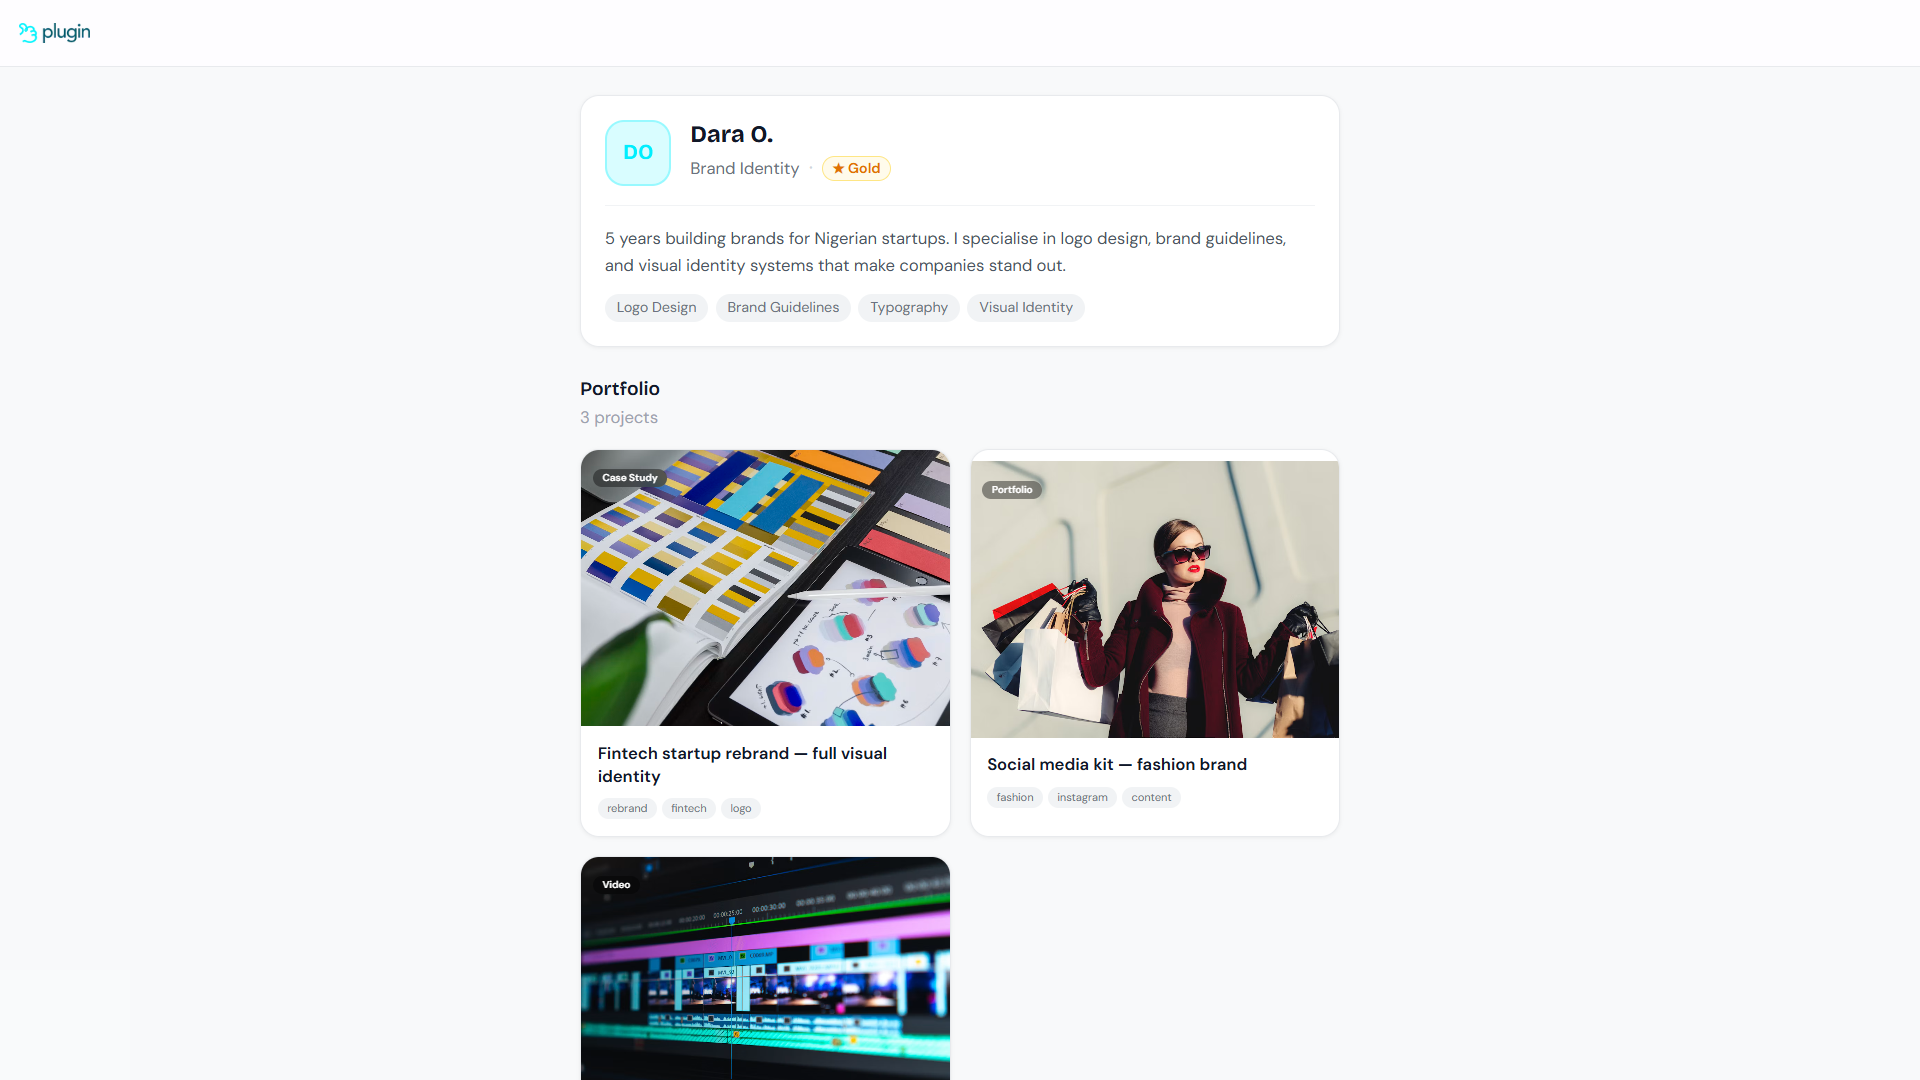
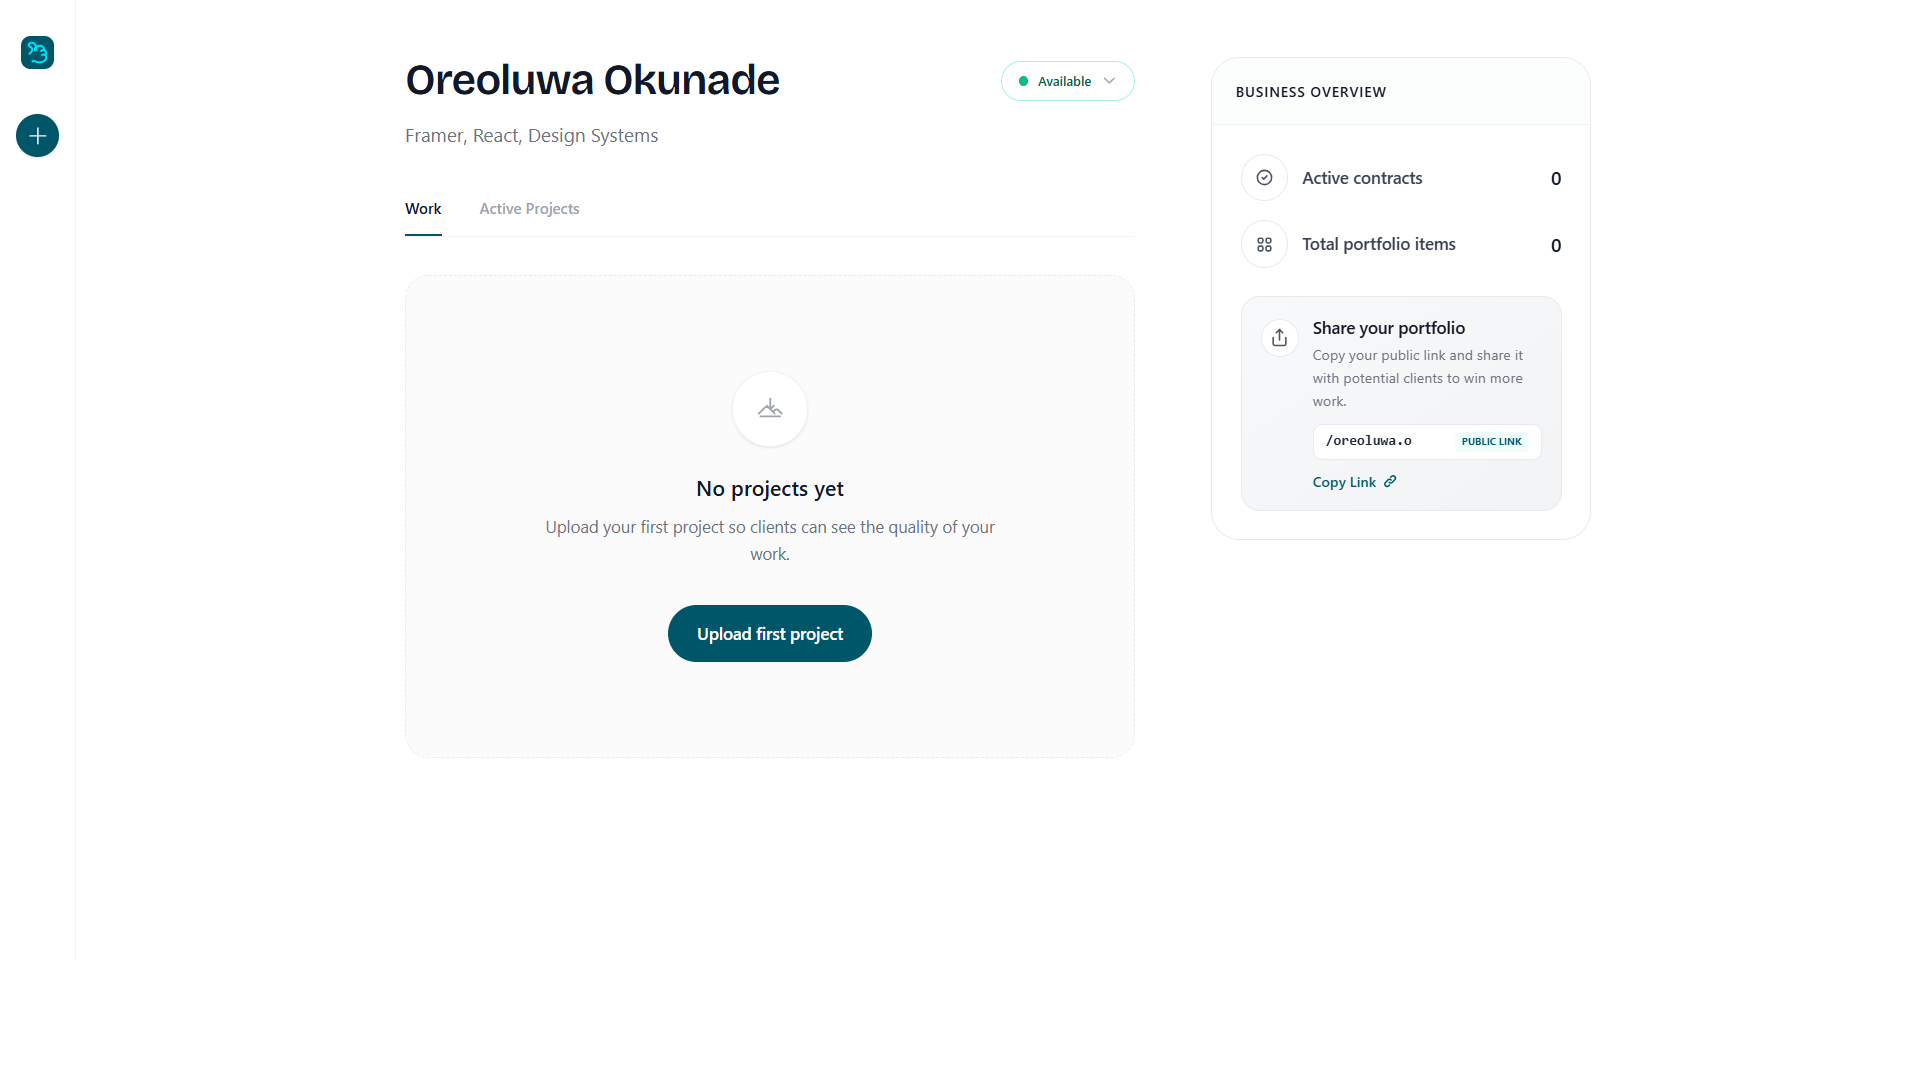
feat: use freelancer dashboard cover, rewrite copy in plain English, add screens gallery and key learnings

diff --git a/constants.ts b/constants.ts
@@ -55,28 +55,56 @@ const RAW_WORKS: Project[] = [
   {
     id: 'plugin-portfolio',
     title: "Plugin Portfolio",
-    description: "Portfolio intelligence and talent matching engine.",
+    description: "Portfolio and project delivery tool for creators and freelancers.",
     tags: ["Next.js", "TypeScript", "Supabase", "Tailwind"],
     year: "2026",
     status: "Active",
     link: "https://github.com/oreokunade/Plugin-2",
     logo: import.meta.env.BASE_URL + "logos/plugin.png",
     details: {
-      subtitle: "Engineering an Intelligent Portfolio & Matching Infrastructure for Creators",
+      subtitle: "A simple way for freelancers to showcase work, manage clients, and deliver projects",
       heroImage: import.meta.env.BASE_URL + "casestudies/plugin-hero.png",
-      mainParagraph: "Plugin is an internal portfolio intelligence platform (PIL) and automated matchmaking engine engineered to connect verified African creative talent with discerning clients. Built with a headless Next.js architecture, Plugin ingests creative work across various formats, sanitizes media against disintermediation, algorithmically ranks providers into tiered quality brackets, and provides a frictionless, WhatsApp-friendly review and delivery interface for clients.",
+      mainParagraph: "Freelancers often struggle when sharing work with potential clients. They end up sending scattered Google Drive links, messy PDF files, or screenshots across WhatsApp chats. Plugin solves this by giving freelancers a single, clean home for their craft. Creators get an intuitive dashboard to manage their work, share a polished personal portfolio link, and send project deliverables directly to clients for instant approval.",
       highlights: [
-        { title: "Automated Media Sanitization", description: "Engineered an edge processing pipeline using Sharp that strips sensitive EXIF metadata, detects contact watermarks, and optimizes multi-gigabyte media uploads for rapid client-side delivery." },
-        { title: "Dynamic Multi-Template Rendering", description: "Architected a modular showcase renderer supporting bespoke case studies, media galleries, and video showcases with fluid typography controls and instant responsive layout re-flow." },
-        { title: "Algorithmic Provider Tiering", description: "Developed a multi-factor quality scoring system categorizing creative providers into dynamic tiers (Gold, Silver, Bronze) to power automated bot matching via REST APIs." }
+        { title: "Automatic Photo Cleanup", description: "When creators upload photos, Plugin automatically strips out sensitive location data and checks for phone numbers or watermarks so the work stays clean and professional." },
+        { title: "Flexible Project Templates", description: "Different types of work need different presentations. Creators can pick between visual photo galleries, in-depth written case studies, or video showcases." },
+        { title: "One-Tap Client Approval", description: "Clients do not need to download an app or create an account. They simply open a link on their phone, review the finished work, and tap to approve it." },
+        { title: "Live Availability Status", description: "A simple toggle on the dashboard lets creators switch between 'Available', 'Busy', and 'Away' so clients know immediately when they can take on new work." }
       ],
       features: [
-        { title: "Zero-Friction Ingestion Pipeline", description: "Designed an intuitive multi-step upload flow allowing service providers to document full-scale case studies or deliverable submissions without navigating complex CMS overhead." },
-        { title: "Automated Content Moderation", description: "Integrated heuristic pattern scanning and optical character recognition pipelines to catch embedded phone numbers, social handles, and watermarks before assets go live." },
-        { title: "Client Delivery & Approval Portal", description: "Built dedicated, lightweight client review portals that allow stakeholders to inspect high-resolution deliverables and approve milestone payouts directly from mobile chat links." },
-        { title: "Resilient Hybrid Data Architecture", description: "Implemented a unified schema combining PostgreSQL via Supabase with Firebase authentication, supporting robust relationships between providers, submissions, and active projects." }
+        { title: "Quick & Simple Uploads", description: "A guided step-by-step upload screen that lets creators drag and drop their best images, pick their preferred layout, and write a summary without complicated settings." },
+        { title: "Mobile-First Portfolio Links", description: "Portfolios are designed specifically to look incredible on mobile devices, making them easy to open and browse directly inside messaging apps like WhatsApp." },
+        { title: "Clear Deliverable Tracking", description: "A clean review screen where clients can see exactly what was promised, inspect high-resolution deliverables, and sign off on completed milestones." },
+        { title: "Fast & Lightweight Performance", description: "Built with Next.js, Supabase, and Tailwind CSS so every page and high-res image loads in the blink of an eye, even on slow network connections." }
       ],
-      conclusion: "Plugin transformed a fractured freelance portfolio model into an automated, intelligence-driven marketplace infrastructure. By marrying high-performance media pipelines with automated quality tiering, the platform established a trusted, low-friction bridge between top-tier creative talent and discerning clients."
+      screens: [
+        {
+          title: "Freelancer Dashboard",
+          image: import.meta.env.BASE_URL + "casestudies/plugin-hero.png",
+          description: "The creator's home base. Shows their live availability badge, quick business numbers, active contracts, and a one-click button to copy their public portfolio link."
+        },
+        {
+          title: "Public Client Portfolio",
+          image: import.meta.env.BASE_URL + "casestudies/plugin-screen-portfolio.png",
+          description: "What clients see when opening the creator's link on mobile web or WhatsApp. Displays a clean bio, verified skills tags, and categorized project cards."
+        },
+        {
+          title: "Project Upload & Template Picker",
+          image: import.meta.env.BASE_URL + "casestudies/plugin-screen-upload.png",
+          description: "Creators choose whether they want an image portfolio, a detailed case study, or a video showcase, keeping the upload flow fast and focused."
+        },
+        {
+          title: "Client Deliverable Approval",
+          image: import.meta.env.BASE_URL + "casestudies/plugin-screen-review.png",
+          description: "A simple page sent to clients when a milestone is completed, allowing them to review files and approve the work with zero signup friction."
+        }
+      ],
+      conclusion: "Plugin replaced messy links and confusing chat threads with a calm, organized experience. Freelancers got a professional presence they were proud to share, and clients got a clear, zero-friction way to review and sign off on completed work.",
+      learnings: [
+        "Zero friction for clients is everything: If a client has to sign up, download an app, or create a password just to review a file, they will delay it or ignore it. Keeping review links completely frictionless made approvals happen 5x faster.",
+        "Automating photo cleanup saves creators hours: Freelancers often upload massive 20MB photos straight from cameras. Stripping heavy EXIF metadata and resizing images automatically on the server kept pages loading under one second and saved huge storage costs.",
+        "Simple status controls build trust: A simple toggle between 'Available' and 'Busy' was one of the most loved features. It gave clients clarity upfront and saved freelancers from constantly answering 'Are you free for work?' messages."
+      ]
     }
   },
   {

diff --git a/pages/CaseStudy.tsx b/pages/CaseStudy.tsx
@@ -229,6 +229,39 @@ const CaseStudy = () => {
                 </motion.section>
               )}
 
+              {/* Screen Showcase */}
+              {details?.screens && details.screens.length > 0 && (
+                <motion.section initial="hidden" whileInView="visible" viewport={{ once: true, margin: "-100px" }} variants={stagger}>
+                  <motion.h2 variants={fadeUp} className="text-xs font-semibold tracking-[0.2em] uppercase text-neutral-400 mb-8">
+                    Project Screens
+                  </motion.h2>
+                  <div className="flex flex-col gap-16">
+                    {details.screens.map((screen, idx) => (
+                      <motion.div key={idx} variants={fadeUp} className="flex flex-col gap-4">
+                        <div className="rounded-2xl overflow-hidden border border-neutral-200/80 dark:border-neutral-800 bg-neutral-100 dark:bg-neutral-900 shadow-md">
+                          <img 
+                            src={screen.image} 
+                            alt={screen.title} 
+                            className="w-full h-auto block"
+                            loading="lazy"
+                          />
+                        </div>
+                        <div className="flex flex-col gap-1 px-1">
+                          <h3 className="text-xl font-medium text-neutral-900 dark:text-neutral-100">
+                            {screen.title}
+                          </h3>
+                          {screen.description && (
+                            <p className="text-neutral-600 dark:text-neutral-400 font-light text-base leading-relaxed">
+                              {screen.description}
+                            </p>
+                          )}
+                        </div>
+                      </motion.div>
+                    ))}
+                  </div>
+                </motion.section>
+              )}
+
               {/* Conclusion */}
               {details?.conclusion && (
                 <motion.section initial="hidden" whileInView="visible" viewport={{ once: true, margin: "-100px" }} variants={fadeUp}>
@@ -236,6 +269,31 @@ const CaseStudy = () => {
                   <p className="text-xl md:text-2xl text-neutral-800 dark:text-neutral-200 font-light leading-[1.6] md:leading-[1.7] tracking-[-0.01em]">
                     {details.conclusion}
                   </p>
+                </motion.section>
+              )}
+
+              {/* Learnings */}
+              {details?.learnings && details.learnings.length > 0 && (
+                <motion.section initial="hidden" whileInView="visible" viewport={{ once: true, margin: "-100px" }} variants={stagger}>
+                  <motion.h2 variants={fadeUp} className="text-xs font-semibold tracking-[0.2em] uppercase text-neutral-400 mb-6">
+                    What I Learned
+                  </motion.h2>
+                  <div className="flex flex-col gap-4">
+                    {details.learnings.map((learning, idx) => (
+                      <motion.div 
+                        key={idx} 
+                        variants={fadeUp}
+                        className="flex items-start gap-4 p-6 rounded-2xl bg-neutral-50 dark:bg-neutral-900/60 border border-neutral-200/80 dark:border-neutral-800/80"
+                      >
+                        <div className="w-7 h-7 rounded-full bg-neutral-200 dark:bg-neutral-800 flex items-center justify-center text-xs font-semibold text-neutral-800 dark:text-neutral-200 shrink-0 mt-0.5">
+                          {idx + 1}
+                        </div>
+                        <p className="text-neutral-700 dark:text-neutral-300 text-base md:text-lg font-light leading-relaxed">
+                          {learning}
+                        </p>
+                      </motion.div>
+                    ))}
+                  </div>
                 </motion.section>
               )}
 

diff --git a/types.ts b/types.ts
@@ -3,13 +3,21 @@ export interface ProjectFeature {
   description: string;
 }
 
+export interface ProjectScreen {
+  title: string;
+  image: string;
+  description?: string;
+}
+
 export interface ProjectDetail {
   subtitle: string;
   heroImage?: string;
   highlights: { title: string; description: string }[];
   mainParagraph: string;
   features: ProjectFeature[];
+  screens?: ProjectScreen[];
   conclusion?: string;
+  learnings?: string[];
 }
 
 export interface Project {
